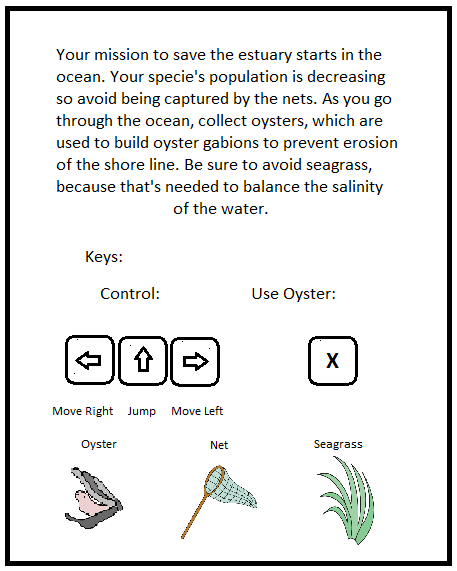
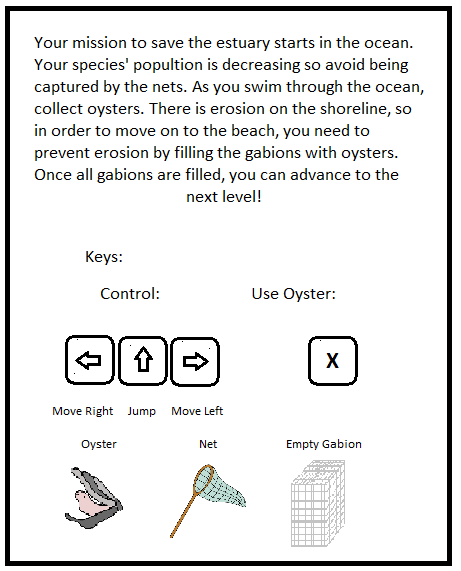
commit

diff --git a/src/model/LevelOne.java b/src/model/LevelOne.java
@@ -88,15 +88,15 @@ public class LevelOne implements java.io.Serializable{
 	 * Creates obstacles for the level and adds them to the list of obstacles.
 	 */
 	public void fillObstacles(){
-		levelObjects.add(new Obstacle(6200,0,0,0,500,400,ObjectType.EmptyGabion,RangeType.None,false,false,Game.gameControl));
+		levelObjects.add(new Obstacle(6400,0,0,0,400,400,ObjectType.EmptyGabion,RangeType.None,false,false,Game.gameControl));
 		levelObjects.getLast().setFinal(true);
-		levelObjects.add(new Obstacle(6200,100,0,0,500,400,ObjectType.EmptyGabion,RangeType.None,false,false,Game.gameControl));
+		levelObjects.add(new Obstacle(6400,100,0,0,400,400,ObjectType.EmptyGabion,RangeType.None,false,false,Game.gameControl));
 		levelObjects.getLast().setFinal(true);
-		levelObjects.add(new Obstacle(6200,200,0,0,500,400,ObjectType.EmptyGabion,RangeType.None,false,false,Game.gameControl));
+		levelObjects.add(new Obstacle(6400,200,0,0,400,400,ObjectType.EmptyGabion,RangeType.None,false,false,Game.gameControl));
 		levelObjects.getLast().setFinal(true);
-		levelObjects.add(new Obstacle(6200,300,0,0,500,400,ObjectType.EmptyGabion,RangeType.None,false,false,Game.gameControl));
+		levelObjects.add(new Obstacle(6400,300,0,0,400,400,ObjectType.EmptyGabion,RangeType.None,false,false,Game.gameControl));
 		levelObjects.getLast().setFinal(true);
-		levelObjects.add(new Obstacle(6200,400,0,0,500,400,ObjectType.EmptyGabion,RangeType.None,false,false,Game.gameControl));
+		levelObjects.add(new Obstacle(6400,400,0,0,400,400,ObjectType.EmptyGabion,RangeType.None,false,false,Game.gameControl));
 		levelObjects.getLast().setFinal(true);
 	}
 	

diff --git a/src/model/LevelThree.java b/src/model/LevelThree.java
@@ -25,7 +25,7 @@ public class LevelThree implements java.io.Serializable{
 	public void fillBlocks(){
 
 		
-		blocks.add(new Platform(1200,500,1200,0,300,30,ObjectType.Wall,RangeType.Long, false, true, Game.gameControl));
+		blocks.add(new Platform(1200,500,1200,0,300,30,ObjectType.Wall,RangeType.Long, false, false, Game.gameControl));
 		blocks.add(new Platform(1600,350,1600,0,200,30,ObjectType.Wall,RangeType.Short, false, false, Game.gameControl));
 		blocks.add(new Platform(2000,500,2000,0,200,30,ObjectType.Wall,RangeType.Short, false, false, Game.gameControl));
 		blocks.add(new Platform(2500,350,2500,0,300,30,ObjectType.Wall,RangeType.Short, false, false, Game.gameControl));

diff --git a/src/model/Obstacle.java b/src/model/Obstacle.java
@@ -31,7 +31,7 @@ public class Obstacle extends InteractiveObject implements java.io.Serializable{
 		super(x, y, initx, inity, width, height, t, r, isVert, isHor, gc);
 		switch(t){
 		case People:
-			file = "Final Images/People and Humanoids/mr_evil.png";
+			file = "Final Images/People and Humanoids/volunteer_blueshirt_walk_left_0.png";
 			break;
 		case Chemicals: 
 			file = "Final Images/Objects/StormDrain_01.png";

diff --git a/src/model/Crabby.java b/src/model/Crabby.java
@@ -213,6 +213,9 @@ public class Crabby extends Character implements java.io.Serializable{
 					System.out.println(this.getLives());
 					this.die();
 					break;
+				case EmptyGabion:
+					gabionCount--;
+					break;
 				}
 				gamecontrol.removeObject(c);
 				gamecontrol.sendNext = true;

diff --git a/src/game/Game.java b/src/game/Game.java
@@ -234,7 +234,7 @@ public class Game extends JFrame implements Runnable, Serializable{
 		        level = 3;
 		    }
             //take this out to start like normal
-            //level = 2;
+//            level = 3;
 			startNextLevel(level);
 		}
 	
